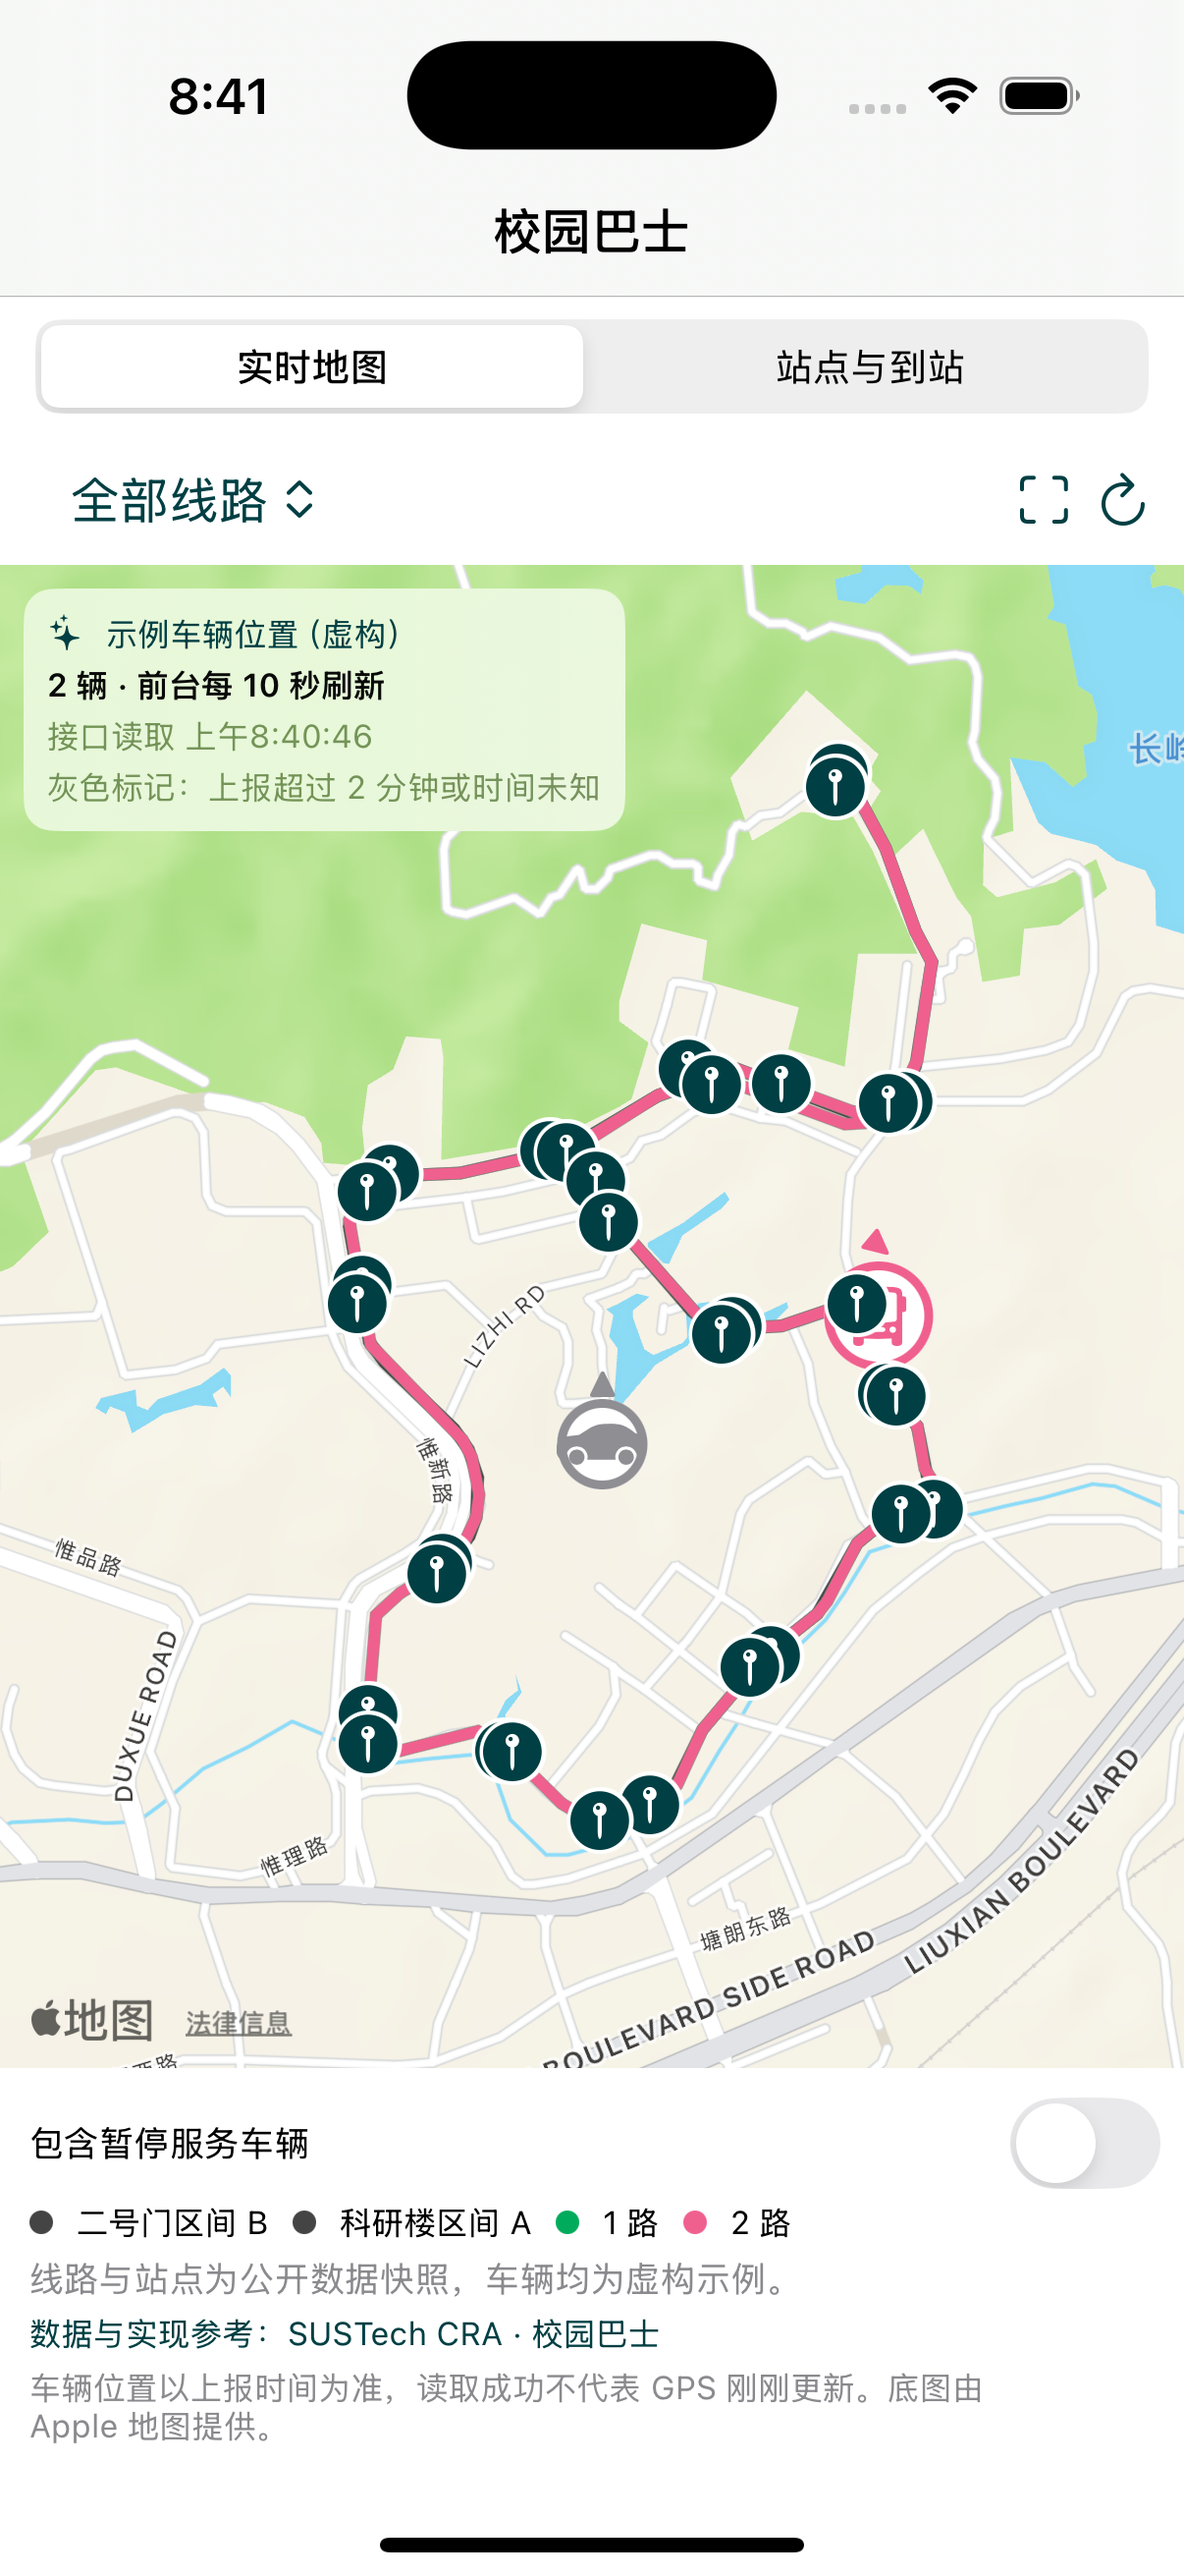
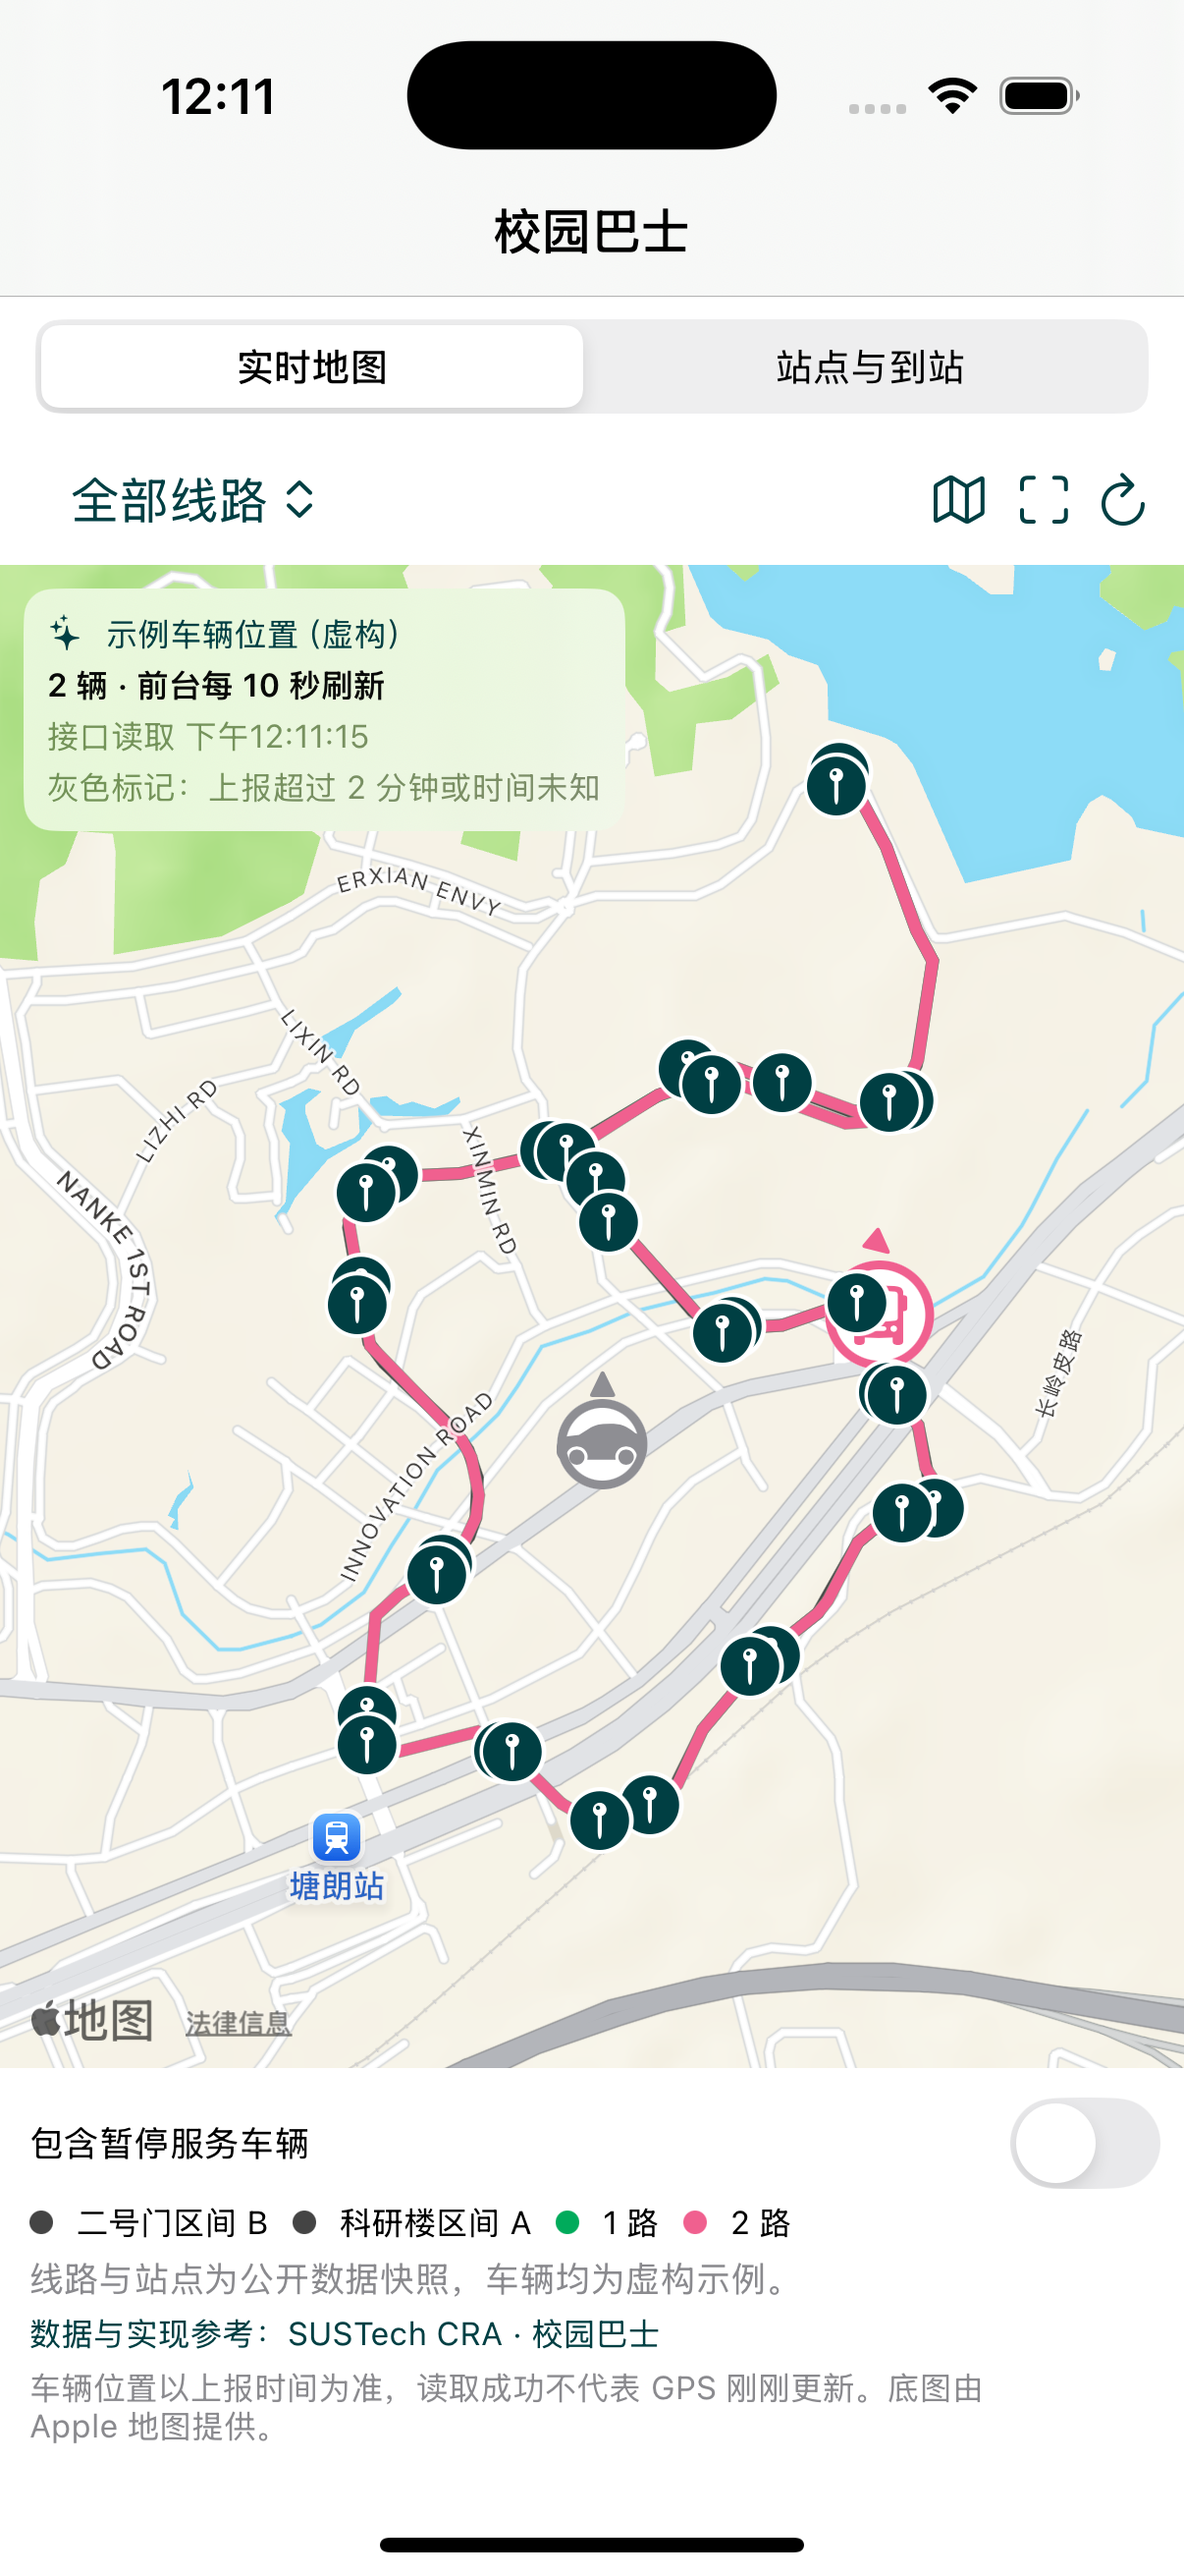
Document verified 0.6.1 packages and publish login, map and venue screenshots

diff --git a/README.md b/README.md
@@ -75,7 +75,7 @@
 
 ## 界面截图
 
-以下为云端 iOS 模拟器实际运行的 **0.5／0.6 版本界面截图（70 张）**，包含 iPhone/iPad、深色外观及大字号。课程、任务、余额等为虚构示例或未连接状态；教师目录为学校已公开资料快照；不含真实学生账号或认证凭据。0.5 基础界面运行 [40172533665](https://github.com/aNother1332/sustech-mobile-ios/actions/runs/40172533665)，界面提交 `6f752ef`。最后的校历/小组件过期逻辑、官方项目详情控件与说明修正经[最终构建 40173815553](https://github.com/aNother1332/sustech-mobile-ios/actions/runs/40173815553)验证，78 项 Swift 测试与 8 项打包测试通过，重点场景另复查 12 张。每张图的来源见 [SOURCES.json](docs/screenshots/SOURCES.json)。截图不作为真实校园业务验收。
+以下为云端 iOS 模拟器实际运行的 **0.5／0.6／0.6.1 版本界面截图（74 张）**，包含 iPhone/iPad、深色外观及大字号。课程、任务、余额等为虚构示例或未连接状态；教师目录为学校已公开资料快照；不含真实学生账号或认证凭据。0.5 基础界面运行 [40172533665](https://github.com/aNother1332/sustech-mobile-ios/actions/runs/40172533665)，界面提交 `6f752ef`。最后的校历/小组件过期逻辑、官方项目详情控件与说明修正经[最终构建 40173815553](https://github.com/aNother1332/sustech-mobile-ios/actions/runs/40173815553)验证，78 项 Swift 测试与 8 项打包测试通过，重点场景另复查 12 张。每张图的来源见 [SOURCES.json](docs/screenshots/SOURCES.json)。截图不作为真实校园业务验收。
 
 ### 0.6 校园巴士地图与教师联系方式
 
@@ -256,7 +256,7 @@
 
 ### 原生登录
 
-空白 CAS 登录表单；不在截图中输入真实凭据。
+空白 CAS 登录表单及默认关闭的“记住账号密码并自动登录”选项；不在截图中输入真实凭据。
 
 <table>
   <tr>
@@ -320,7 +320,7 @@
 
 ### 统一预约中心
 
-IC、CLE 和新体育场馆入口，并保留原体育预约平台。
+IC、CLE、体育场馆与书院场地入口；书院目录与日程为原生，最终预定仍使用官方页面。
 
 <table>
   <tr><th>iPhone</th><th>iPad</th></tr>
@@ -364,6 +364,17 @@ IC、CLE 和新体育场馆入口，并保留原体育预约平台。
     <td><img src="docs/screenshots/iPhone-court.png" width="260" alt="iPhone 体育场馆"></td>
     <td><img src="docs/screenshots/iPad-court.png" width="520" alt="iPad 体育场馆"></td>
   </tr>
+</table>
+
+### 0.6.1 打印站点与书院场地
+
+打印站点独立于登录查询；书院场地原生查看目录与当日安排，最终提交在学校页面完成。截图均为明确标注的虚构演示数据，公开打印接口另行实测返回 26 个真实站点。
+
+<table>
+  <tr><th>iPhone 打印站点</th><th>iPad 打印站点</th></tr>
+  <tr><td><img src="docs/screenshots/iPhone-print-stations.png" width="260" alt="iPhone 演示打印站点"></td><td><img src="docs/screenshots/iPad-print-stations.png" width="520" alt="iPad 演示打印站点"></td></tr>
+  <tr><th>iPhone 书院场地</th><th>iPad 书院场地</th></tr>
+  <tr><td><img src="docs/screenshots/iPhone-college.png" width="260" alt="iPhone 演示书院场地"></td><td><img src="docs/screenshots/iPad-college.png" width="520" alt="iPad 演示书院场地"></td></tr>
 </table>
 
 ### BB 课程折叠

diff --git a/docs/REVIEW_0_6_1.md b/docs/REVIEW_0_6_1.md
@@ -1,0 +1,14 @@
+# 0.6.1 修改核对
+
+| 用户要求 | 本轮实现 | 验证边界 |
+| --- | --- | --- |
+| 校车向西北偏移 | WGS-84 → GCJ-02 只作用于国内底图展示；线路、站点、车辆、中心一致；保留原坐标模式 | 既定数学基准通过，校内实际地标仍需实机比对 |
+| 体育授权不扫码 | 新增外部 HTTPS 授权按钮，二维码移入备用折叠区，保留企业微信分享 | 企业微信授权环境与回调导入仍需用户实测，不承诺外部浏览器自动取得令牌 |
+| 其他场馆原生 | 书院目录、详情、当日安排为原生；独立 booking 令牌复用 | 最终预约提交仍为官方网页，不能宣称完整原生预约已完成 |
+| 打印站点无法显示 | 公开查询绕开 CAS，空结果/失败提示，下拉刷新 | 公开接口实测 26 个有名称站点；设备状态由学校上报 |
+| 教务登录状态不明 | 改用课表同源受保护学期接口验证；所有状态可展开登录；检测中不可重复检测，但可打开登录 | 真实账号状态与断网行为待实机；不能把网络失败当密码失效 |
+| 记住账号密码自动登录 | 主动选择、登录后存本机钥匙串；前台先校验 Cookie，再对确认失效补登；五分钟冷却，拒绝/挑战/限流暂停；关闭时删除，失败提示 | 未使用用户真实密码进行测试，钥匙串和自动登录需本人设备验证 |
+
+凭据不进入 UserDefaults、缓存文件、日志或 CI。UserDefaults 仅保存自动登录暂停标记。钥匙串 WhenUnlockedThisDeviceOnly，无跨设备同步。切换账户时停止旧账号自动登录；退出清除凭据。表单关闭保存开关即时删除，不依赖再次提交。
+
+本轮不执行真实预约、打印上传或支付；测试回包使用虚构令牌及示例数据。

diff --git a/docs/BUILD_VALIDATION.md b/docs/BUILD_VALIDATION.md
@@ -1,3 +1,20 @@
+# 0.6.1（构建 10）验收
+
+- 最终包源码：`58b5baf1efd690dd6d8a6f74200696608224276c`。
+- 成功构建：[40191460527](https://github.com/aNother1332/sustech-mobile-ios/actions/runs/40191460527)。89 项 Swift 测试与 8 项 Python 打包测试通过；模拟器、arm64 iPhoneOS 主应用及两项扩展编译通过。
+- iPhone/iPad 五个场景（巴士地图、原生登录、体育授权、打印站点、书院目录）实际启动并截图；两次地图自动检查均为 4 条线路、351 个轨迹点、33 个站点、2 辆虚构车辆。已查看关键 iPhone 截图与 iPad 登录截图。
+- 普通 IPA 与扩展 IPA 的 ZIP、SHA256、版本 0.6.1/10、iOS 17、设备族 [1,2]、Bundle ID、显示名和 arm64 iPhoneOS Mach-O 全部核对。文件位于 `D:/Altstore/App/SUSTechMobile-0.6.1`。
+- 公开打印接口无需 Cookie 实测 HTTP 200/code 0，返回 26 个有名称站点。
+- 坐标转换有既定基准测试；实机国内底图对齐、钥匙串重启留存、真实账号自动补登、企业微信授权、书院目录/日程仍需本人设备验证。演示截图不代替校园业务验收。
+- 本轮未执行真实预约、打印上传或支付；书院最终预约提交仍在官方页面。
+- 完整日志：`D:/Altstore/Diagnostics/SUSTechMobile-0.6.1-final-build.log`。每张图库截图来源记录在 `docs/screenshots/SOURCES.json`。
+
[1 lines of base64/hex data omitted]
+
[1 lines of base64/hex data omitted]
+
+---
+
 # 0.6.0（构建 9）验收
 
 - 最终包源码：`e07485d9c80f56d8e0c9043330e49e4f36ce3d60`，已在 main。
